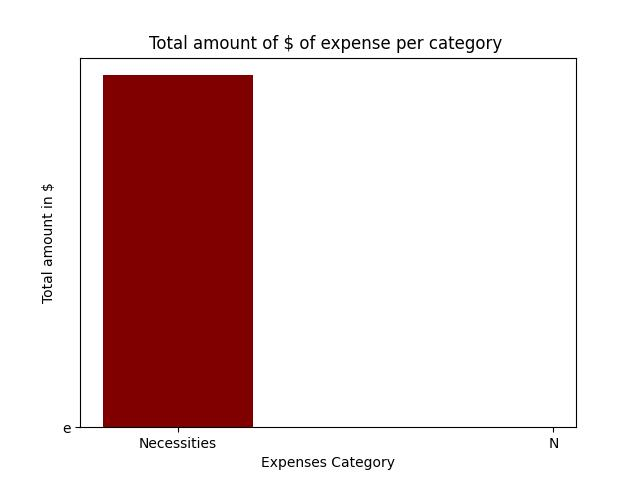
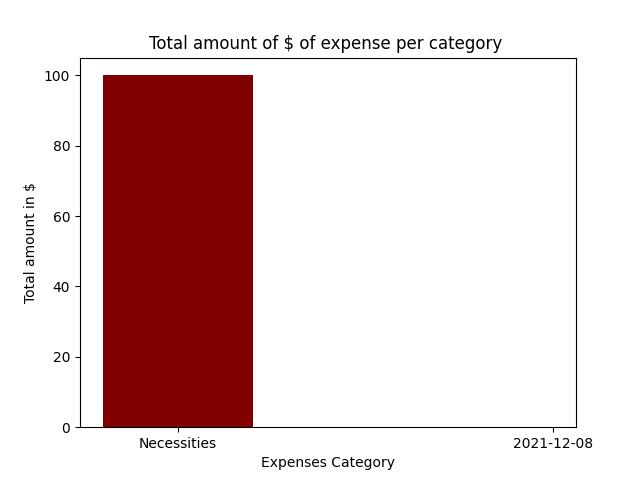
update

diff --git a/app.py b/app.py
@@ -76,7 +76,7 @@ def graph():
     filtered_data = graphing.filt(data)
     processed_data = graphing.convert_dict(filtered_data)
     graphing.bar_graph(processed_data)
-    graphing.time_plot(processed_data)
+    graphing.time_plot(data)
     return render_template("graph.html")
 
     
